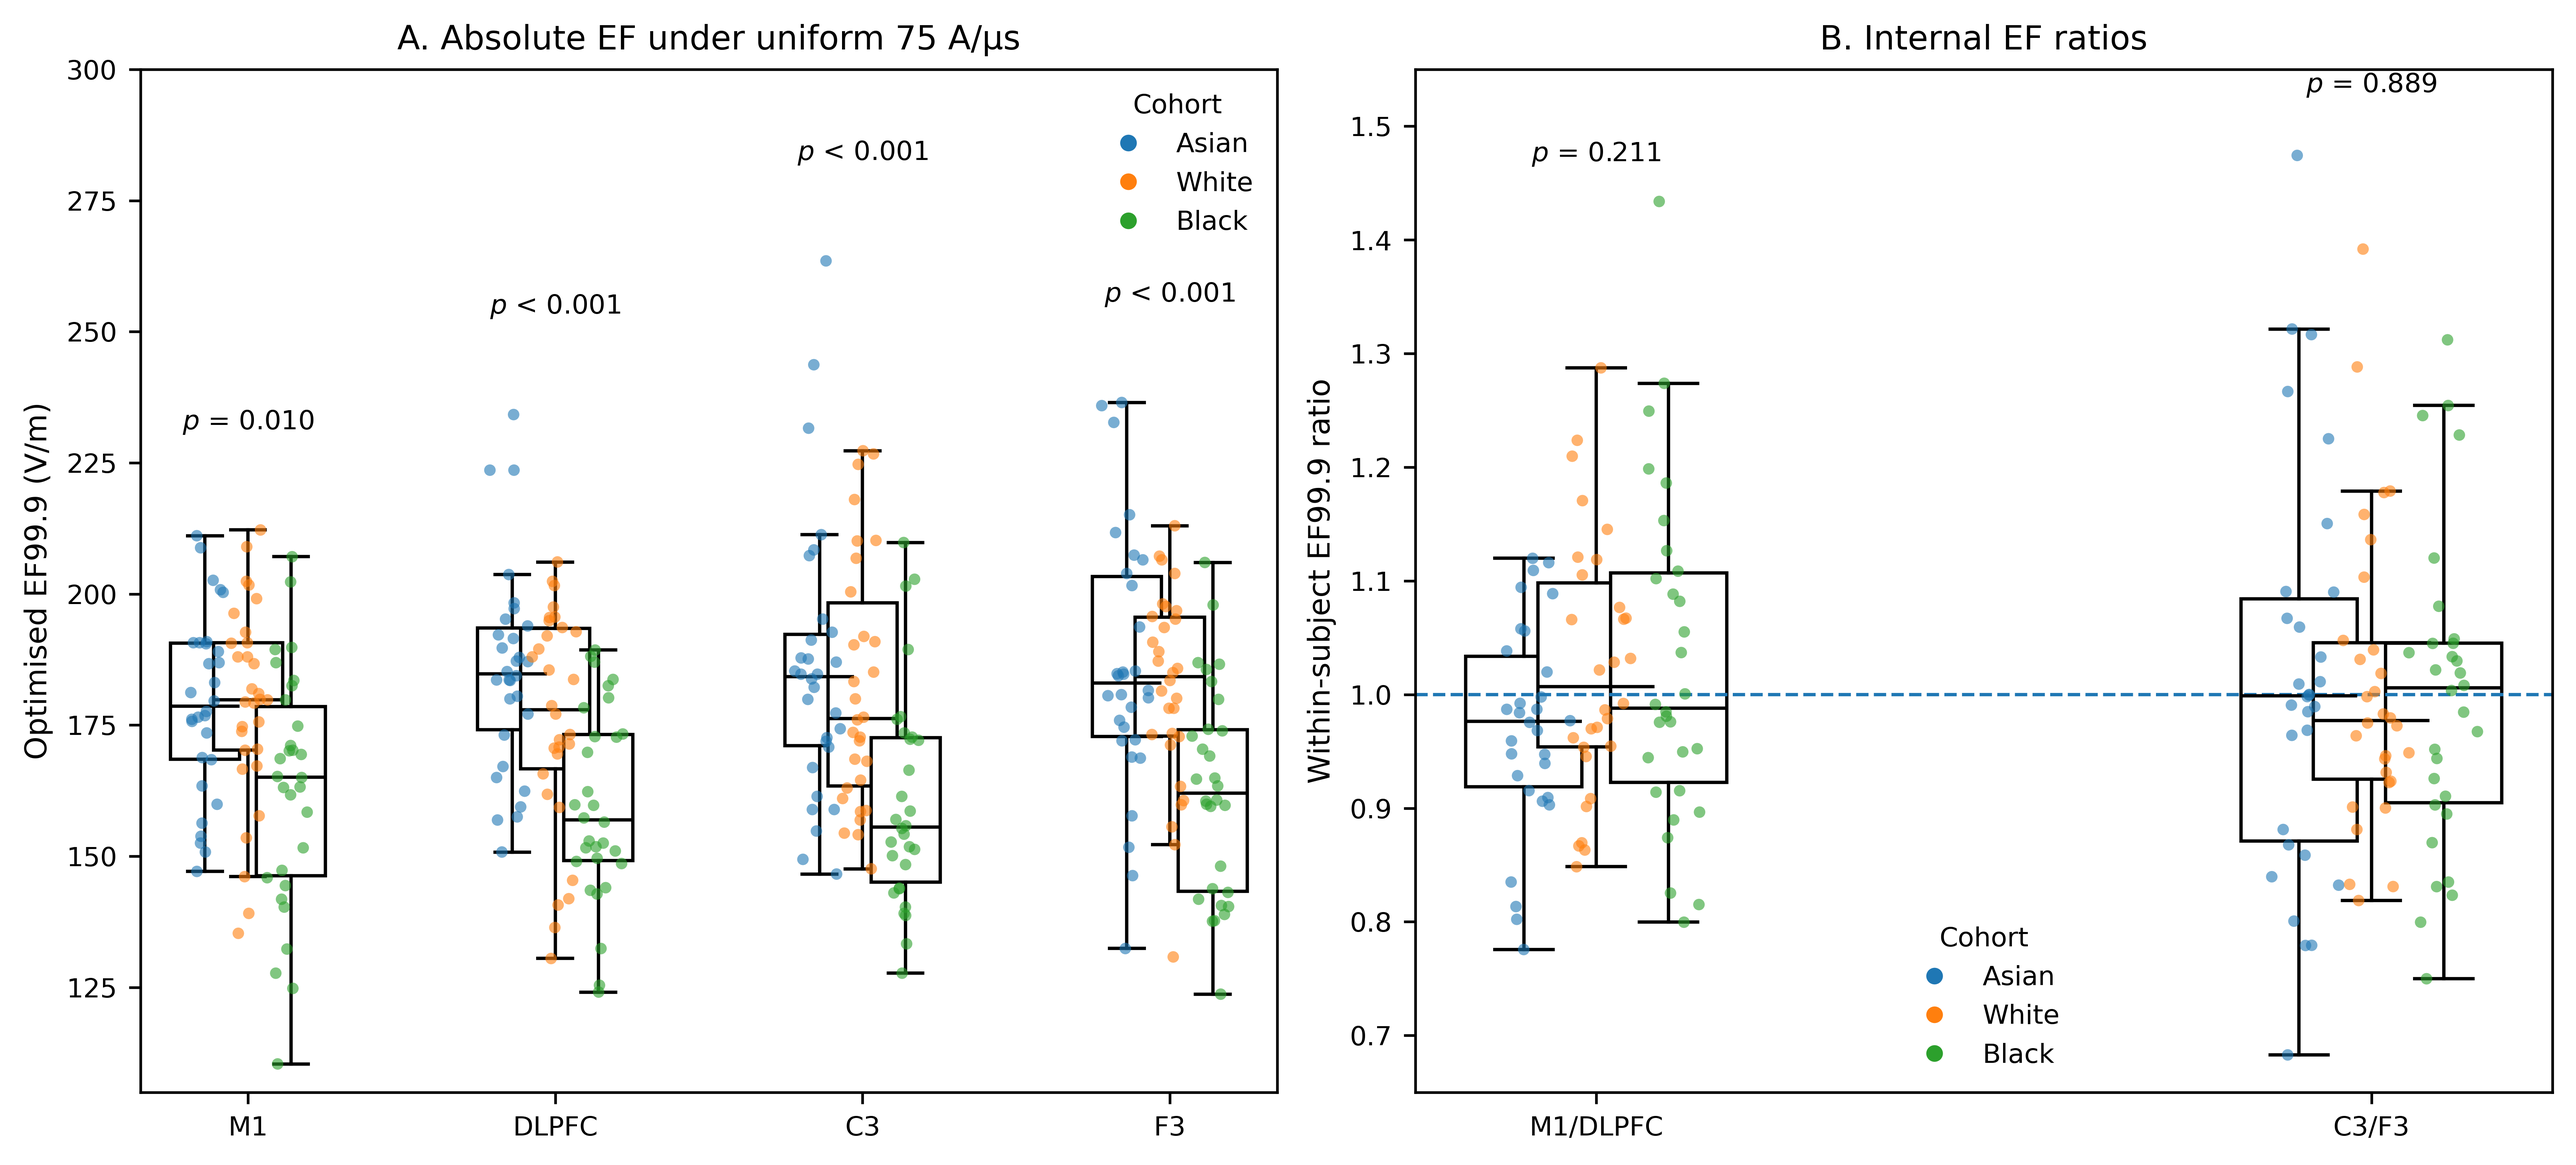
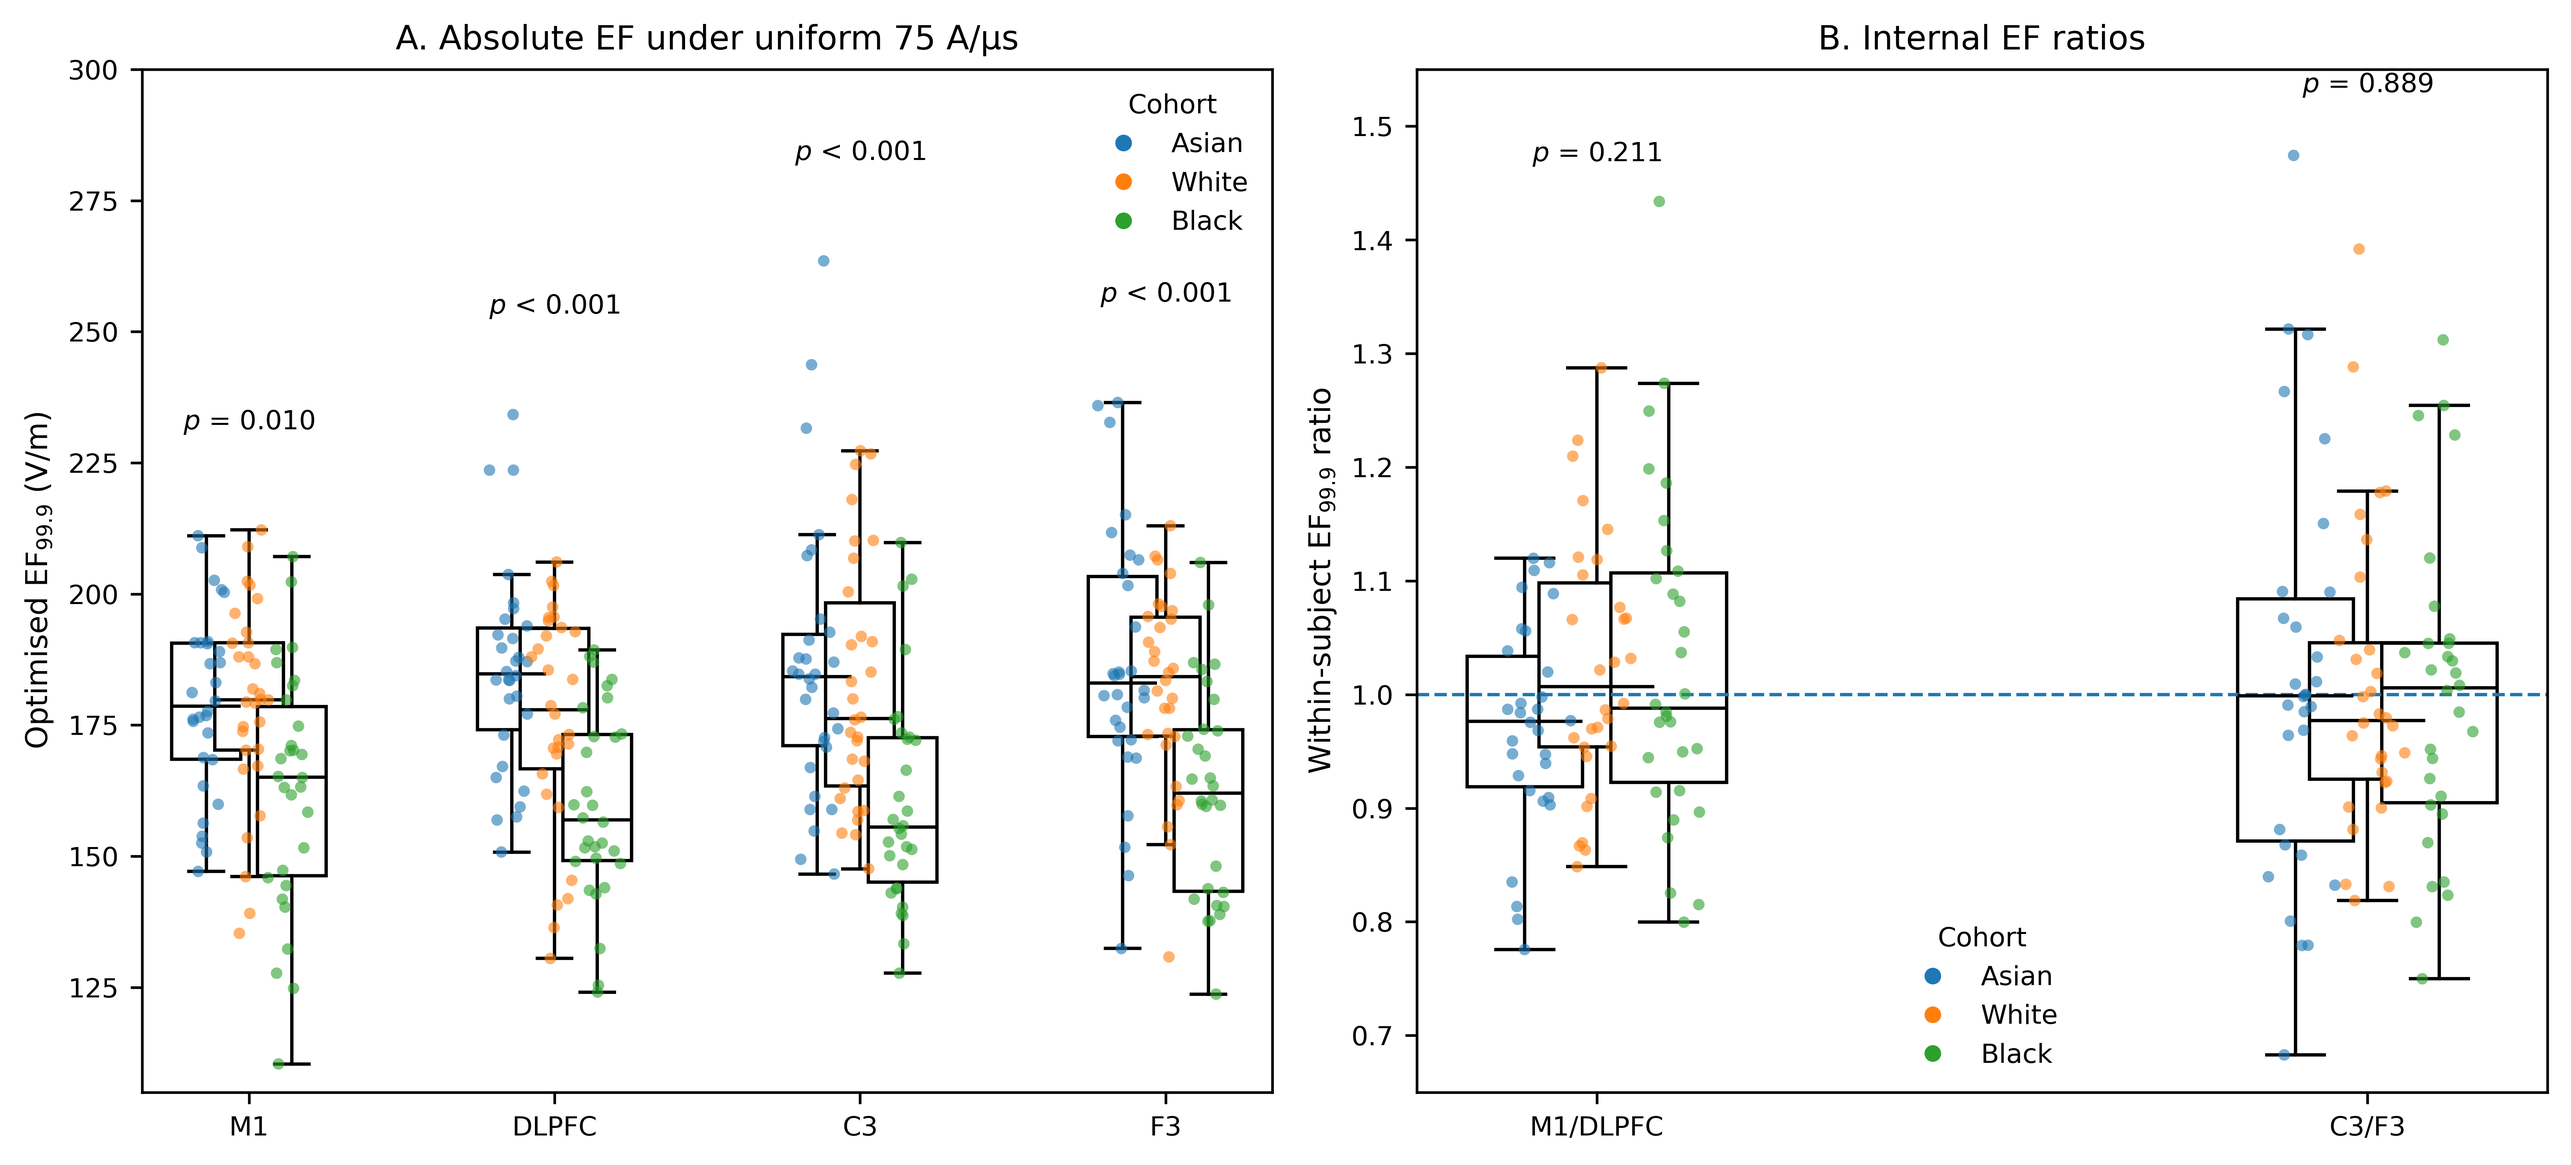
Subscript 99.9 in EF labels (Fig 3A/3B/4 ylabel) via $_{99.9}$

diff --git a/make_all_figures.py b/make_all_figures.py
@@ -248,7 +248,7 @@ def fig3(wide, outdir):
                 p_text[t], ha='center', va='bottom', fontsize=8)
     ax.set_xlim(0.3, 7.7); ax.set_ylim(105, 300)
     ax.set_xticks(centers); ax.set_xticklabels(targets)
-    ax.set_ylabel('Optimised EF99.9 (V/m)')
+    ax.set_ylabel('Optimised EF$_{99.9}$ (V/m)')
     ax.set_title('A. Absolute EF under uniform 75 A/µs')
     handles = [Line2D([0], [0], marker='o', linestyle='None',
                       markerfacecolor=COHORT_COLORS[c],
@@ -269,7 +269,7 @@ def fig3(wide, outdir):
     ax.axhline(1.0, color='tab:blue', ls='--', lw=1.0)
     ax.set_xlim(0.3, 4.7); ax.set_ylim(0.65, 1.55)
     ax.set_xticks([1.0, 4.0]); ax.set_xticklabels(['M1/DLPFC', 'C3/F3'])
-    ax.set_ylabel('Within-subject EF99.9 ratio')
+    ax.set_ylabel('Within-subject EF$_{99.9}$ ratio')
     ax.set_title('B. Internal EF ratios')
     ax.legend(handles=handles, title='Cohort', frameon=False, loc='lower center')
     save_both(fig, outdir, 'Figure_3')
@@ -293,7 +293,7 @@ def fig4(wide, outdir):
                         color=color, alpha=0.12)
     ax.axhline(1.0, color='tab:blue', ls='--', lw=1.0)
     ax.axvline(0.0, color='tab:blue', ls=':', lw=1.0)
-    ax.set_xlabel('ΔSCD (mm)'); ax.set_ylabel('EF99.9 ratio')
+    ax.set_xlabel('ΔSCD (mm)'); ax.set_ylabel('EF$_{99.9}$ ratio')
     ax.legend(frameon=False, loc='upper right')
     save_both(fig, outdir, 'Figure_4')
 
